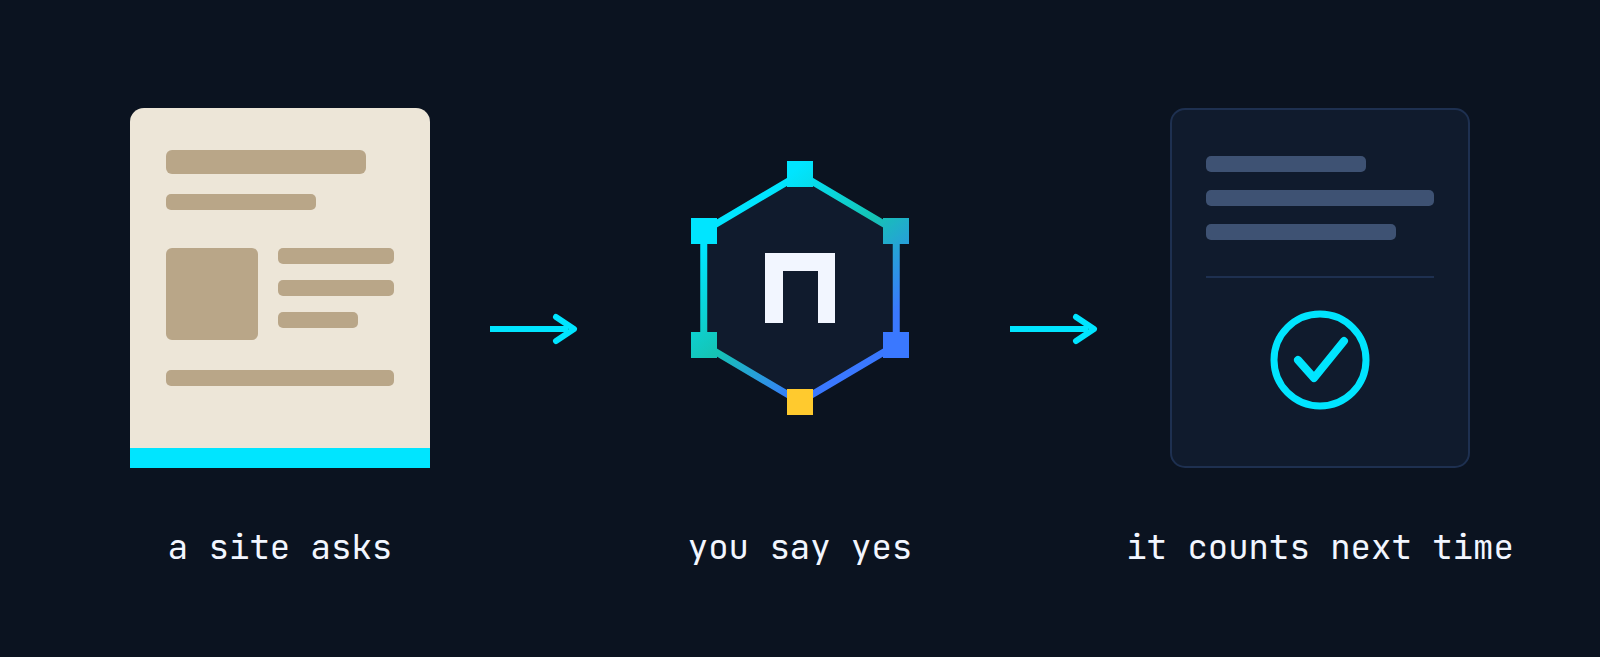
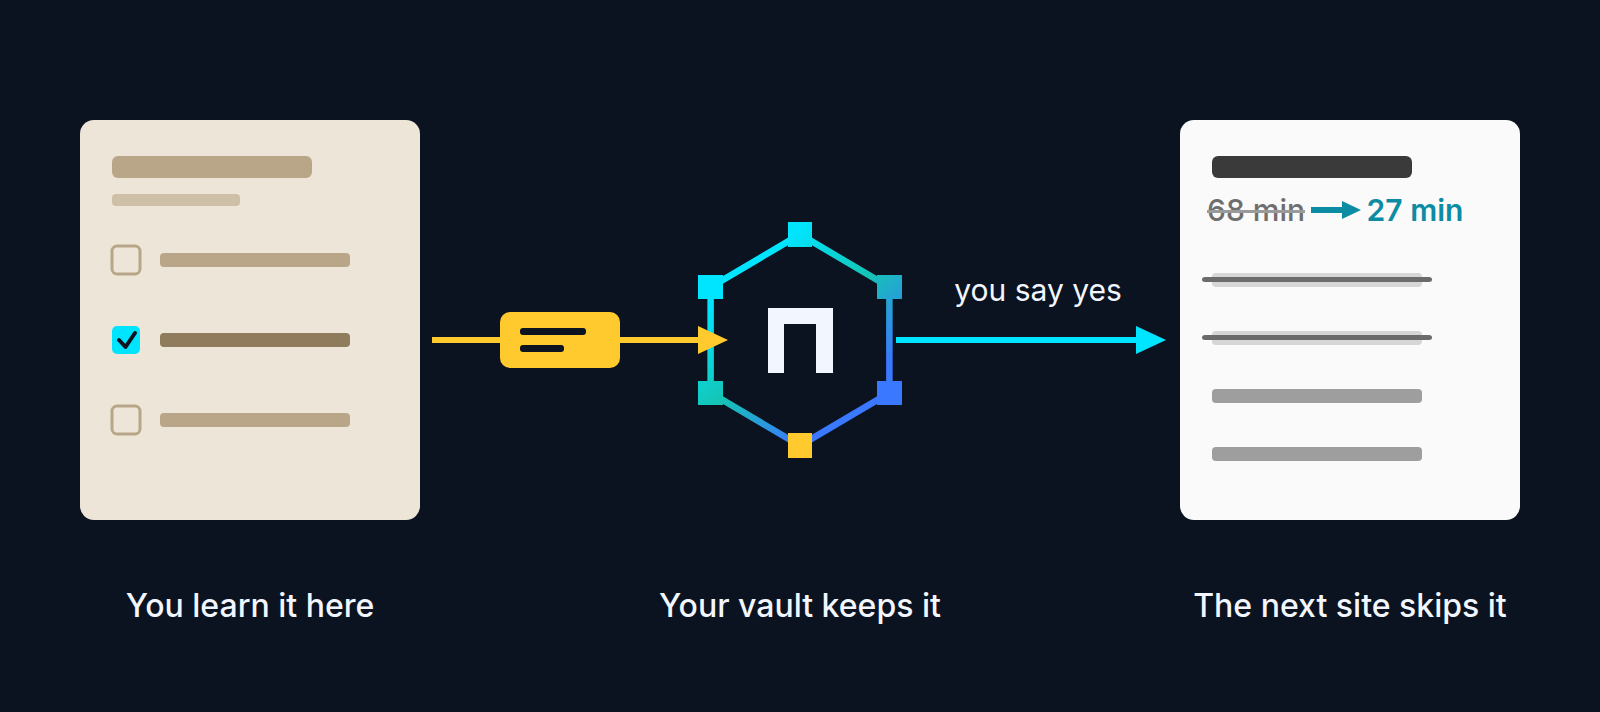
press: the first story card shows the idea, two sites and the vault between them
Claude-Session: https://claude.ai/code/session_01AfeggrhBqzmN8guag9N5jj

diff --git a/docs/assets/press/card-how-it-works.html b/docs/assets/press/card-how-it-works.html
@@ -1,92 +1,109 @@
 <!doctype html>
 <meta charset="utf-8">
-<title>nema story card, how it works</title>
+<title>nema story card, learn it once</title>
 <link rel="stylesheet" href="card.css">
 <style>
-  .row { display: flex; align-items: center; justify-content: center; }
-  .item { width: 400px; flex: none; text-align: center; }
-  .art { height: 400px; display: flex; align-items: center; justify-content: center; }
-  .item .lbl { margin-top: 36px; font-size: 34px; color: #F2F6FF; }
-  .arrow { width: 120px; flex: none; height: 400px; display: flex; align-items: center; justify-content: center; }
+  .card { padding: 80px; }
+
+  .band { position: relative; width: 1440px; height: 460px; }
+  .band > svg { position: absolute; inset: 0; }
+  .band > span { position: absolute; transform: translate(-50%, -50%); white-space: nowrap; }
+
+  /* The estimate on the second site: struck, then what is left. */
+  .was { font-size: 30px; font-weight: 500; color: #6E6E6E;
+         text-decoration: line-through; text-decoration-thickness: 3px; text-decoration-color: #9A9A9A; }
+  .now { font-size: 30px; font-weight: 600; color: #0B8CA3; }
+
+  /* The consent, said on the way out of the vault. */
+  .yes { font-size: 30px; color: #F2F6FF; }
+
+  .caps { position: relative; height: 46px; margin-top: 46px; }
+  .caps span { position: absolute; transform: translateX(-50%);
+               font-size: 32px; font-weight: 500; color: #F2F6FF; white-space: nowrap; }
 </style>
 
 <div class="card">
-  <div class="row">
 
-    <div class="item">
-      <div class="art">
-        <svg width="300" height="360" viewBox="0 0 300 360" fill="none">
-          <rect width="300" height="360" rx="14" fill="#EDE6D8"/>
-          <g fill="#B9A688">
-            <rect x="36" y="42" width="200" height="24" rx="6"/>
-            <rect x="36" y="86" width="150" height="16" rx="5"/>
-            <rect x="36" y="140" width="92" height="92" rx="6"/>
-            <rect x="148" y="140" width="116" height="16" rx="5"/>
-            <rect x="148" y="172" width="116" height="16" rx="5"/>
-            <rect x="148" y="204" width="80" height="16" rx="5"/>
-            <rect x="36" y="262" width="228" height="16" rx="5"/>
-          </g>
-          <rect x="0" y="340" width="300" height="20" fill="#00E5FF"/>
-        </svg>
-      </div>
-      <p class="lbl">a site asks</p>
-    </div>
+  <div class="band">
+    <svg width="1440" height="460" viewBox="0 0 1440 460" fill="none">
+      <defs>
+        <linearGradient id="hw-edge" x1="32" y1="4" x2="58" y2="34" gradientUnits="userSpaceOnUse">
+          <stop offset="0" stop-color="#00E5FF"/><stop offset="0.5" stop-color="#15C4B4"/><stop offset="1" stop-color="#3A78FF"/>
+        </linearGradient>
+      </defs>
 
-    <div class="arrow">
-      <svg width="100" height="34" viewBox="0 0 100 34" fill="none">
-        <path d="M0 17 H78" stroke="#00E5FF" stroke-width="6"/>
-        <path d="M66 5 L84 17 L66 29" stroke="#00E5FF" stroke-width="6" stroke-linecap="round" stroke-linejoin="round"/>
-      </svg>
-    </div>
+      <!-- the first site: a page you actually worked through -->
+      <rect x="0" y="40" width="340" height="400" rx="14" fill="#EDE6D8"/>
+      <rect x="32" y="76" width="200" height="22" rx="6" fill="#B9A688"/>
+      <rect x="32" y="114" width="128" height="12" rx="4" fill="#CDC0A7"/>
 
-    <div class="item">
-      <div class="art">
-        <svg width="280" height="280" viewBox="0 0 64 64" fill="none">
-          <defs>
-            <linearGradient id="hw-edge" x1="32" y1="4" x2="58" y2="34" gradientUnits="userSpaceOnUse">
-              <stop offset="0" stop-color="#00E5FF"/><stop offset="0.5" stop-color="#15C4B4"/><stop offset="1" stop-color="#3A78FF"/>
-            </linearGradient>
-          </defs>
-          <path d="M32 6 L54 19 L54 45 L32 58 L10 45 L10 19 Z" fill="#101B2D" stroke="url(#hw-edge)" stroke-width="1.6" stroke-linejoin="miter"/>
-          <g shape-rendering="crispEdges">
-            <rect x="29" y="3" width="6" height="6" fill="url(#hw-edge)"/>
-            <rect x="51" y="16" width="6" height="6" fill="url(#hw-edge)"/>
-            <rect x="51" y="42" width="6" height="6" fill="url(#hw-edge)"/>
-            <rect x="29" y="55" width="6" height="6" fill="#FFCA2E"/>
-            <rect x="7" y="42" width="6" height="6" fill="url(#hw-edge)"/>
-            <rect x="7" y="16" width="6" height="6" fill="url(#hw-edge)"/>
-          </g>
-          <g fill="#F2F6FF" shape-rendering="crispEdges">
-            <rect x="24" y="24" width="16" height="4"/><rect x="24" y="28" width="4" height="12"/><rect x="36" y="28" width="4" height="12"/>
-          </g>
-        </svg>
-      </div>
-      <p class="lbl">you say yes</p>
-    </div>
+      <rect x="32" y="166" width="28" height="28" rx="5" fill="none" stroke="#B9A688" stroke-width="3"/>
+      <rect x="80" y="173" width="190" height="14" rx="4" fill="#B9A688"/>
 
-    <div class="arrow">
-      <svg width="100" height="34" viewBox="0 0 100 34" fill="none">
-        <path d="M0 17 H78" stroke="#00E5FF" stroke-width="6"/>
-        <path d="M66 5 L84 17 L66 29" stroke="#00E5FF" stroke-width="6" stroke-linecap="round" stroke-linejoin="round"/>
-      </svg>
-    </div>
+      <rect x="32" y="246" width="28" height="28" rx="5" fill="#00E5FF"/>
+      <path d="M39 260 L45.5 267 L55 253" stroke="#0B1320" stroke-width="4" fill="none"
+            stroke-linecap="round" stroke-linejoin="round"/>
+      <rect x="80" y="253" width="190" height="14" rx="4" fill="#8E7C5C"/>
 
-    <div class="item">
-      <div class="art">
-        <svg width="300" height="360" viewBox="0 0 300 360" fill="none">
-          <rect x="1" y="1" width="298" height="358" rx="14" fill="#101B2D" stroke="#1E3050" stroke-width="2"/>
-          <g fill="#3E5273">
-            <rect x="36" y="48" width="160" height="16" rx="5"/>
-            <rect x="36" y="82" width="228" height="16" rx="5"/>
-            <rect x="36" y="116" width="190" height="16" rx="5"/>
-          </g>
-          <rect x="36" y="168" width="228" height="2" fill="#1E3050"/>
-          <circle cx="150" cy="252" r="46" fill="none" stroke="#00E5FF" stroke-width="7"/>
-          <path d="M128 252 L144 270 L174 233" stroke="#00E5FF" stroke-width="8" fill="none" stroke-linecap="round" stroke-linejoin="round"/>
-        </svg>
-      </div>
-      <p class="lbl">it counts next time</p>
-    </div>
+      <rect x="32" y="326" width="28" height="28" rx="5" fill="none" stroke="#B9A688" stroke-width="3"/>
+      <rect x="80" y="333" width="190" height="14" rx="4" fill="#B9A688"/>
 
+      <!-- the vault -->
+      <g transform="translate(590 130) scale(4.0625)">
+        <path d="M32 6 L54 19 L54 45 L32 58 L10 45 L10 19 Z" fill="#0B1320" stroke="url(#hw-edge)"
+              stroke-width="1.6" stroke-linejoin="miter"/>
+        <g shape-rendering="crispEdges">
+          <rect x="29" y="3" width="6" height="6" fill="url(#hw-edge)"/>
+          <rect x="51" y="16" width="6" height="6" fill="url(#hw-edge)"/>
+          <rect x="51" y="42" width="6" height="6" fill="url(#hw-edge)"/>
+          <rect x="29" y="55" width="6" height="6" fill="#FFCA2E"/>
+          <rect x="7" y="42" width="6" height="6" fill="url(#hw-edge)"/>
+          <rect x="7" y="16" width="6" height="6" fill="url(#hw-edge)"/>
+        </g>
+        <g fill="#F2F6FF" shape-rendering="crispEdges">
+          <rect x="24" y="24" width="16" height="4"/><rect x="24" y="28" width="4" height="12"/><rect x="36" y="28" width="4" height="12"/>
+        </g>
+      </g>
+
+      <!-- the signed receipt leaving the page and going into the vault -->
+      <rect x="352" y="257" width="272" height="6" fill="#FFCA2E"/>
+      <path d="M618 246 L648 260 L618 274 Z" fill="#FFCA2E"/>
+      <rect x="420" y="232" width="120" height="56" rx="10" fill="#FFCA2E"/>
+      <g fill="#0B1320">
+        <rect x="440" y="248" width="66" height="7" rx="3"/>
+        <rect x="440" y="265" width="44" height="7" rx="3"/>
+      </g>
+
+      <!-- the vault's answer, on its way to the second site -->
+      <rect x="816" y="257" width="244" height="6" fill="#00E5FF"/>
+      <path d="M1056 246 L1086 260 L1056 274 Z" fill="#00E5FF"/>
+
+      <!-- the second site: a different page, shorter than it was -->
+      <rect x="1100" y="40" width="340" height="400" rx="14" fill="#FAFAFA"/>
+      <rect x="1132" y="76" width="200" height="22" rx="6" fill="#3A3A3A"/>
+
+      <rect x="1231" y="127" width="34" height="6" fill="#0B8CA3"/>
+      <path d="M1262 121 L1281 130 L1262 139 Z" fill="#0B8CA3"/>
+
+      <rect x="1132" y="193" width="210" height="14" rx="4" fill="#D6D6D6"/>
+      <rect x="1122" y="197" width="230" height="5" rx="3" fill="#6B6B6B"/>
+
+      <rect x="1132" y="251" width="210" height="14" rx="4" fill="#D6D6D6"/>
+      <rect x="1122" y="255" width="230" height="5" rx="3" fill="#6B6B6B"/>
+
+      <rect x="1132" y="309" width="210" height="14" rx="4" fill="#9E9E9E"/>
+      <rect x="1132" y="367" width="210" height="14" rx="4" fill="#9E9E9E"/>
+    </svg>
+
+    <span class="was" style="left: 1176px; top: 130px">68 min</span>
+    <span class="now" style="left: 1335px; top: 130px">27 min</span>
+    <span class="yes" style="left: 958px; top: 210px">you say yes</span>
   </div>
+
+  <div class="caps">
+    <span style="left: 170px">You learn it here</span>
+    <span style="left: 720px">Your vault keeps it</span>
+    <span style="left: 1270px">The next site skips it</span>
+  </div>
+
 </div>

diff --git a/docs/assets/press/resize.py b/docs/assets/press/resize.py
@@ -1,13 +1,15 @@
 #!/usr/bin/env python3
 """Write the 720 px variants the Devpost story embeds.
 
-    python3 docs/assets/press/resize.py
+    python3 docs/assets/press/resize.py [name ...]
 
 Reads every apps/site/public/press/card-*.png that is not already a variant and
-writes card-<name>-sm.png beside it, resized to 720 px wide with LANCZOS.
+writes card-<name>-sm.png beside it, resized to 720 px wide with LANCZOS. Pass
+one or more names to do only the cards whose filename contains them.
 """
 import glob
 import os
+import sys
 
 from PIL import Image
 
@@ -15,8 +17,12 @@ HERE = os.path.dirname(os.path.abspath(__file__))
 OUT = os.path.join(HERE, '..', '..', '..', 'apps', 'site', 'public', 'press')
 OUT = os.path.normpath(OUT)
 
+WANTED = sys.argv[1:]
+
 for src in sorted(glob.glob(os.path.join(OUT, 'card-*.png'))):
     if src.endswith('-sm.png'):
+        continue
+    if WANTED and not any(name in os.path.basename(src) for name in WANTED):
         continue
     im = Image.open(src).convert('RGB')
     width, height = im.size

diff --git a/apps/site/public/press/story-cards.md b/apps/site/public/press/story-cards.md
@@ -16,13 +16,13 @@ Hosted at `https://nema.migarci2.dev/press/<file>`.
 | card | 1x | embed | what it shows |
 |---|---|---|---|
 | how it works | `card-how-it-works.png` 1600 x 657 | `card-how-it-works-sm.png` 720 x 296 | A page, the nema mark, a signed receipt, two arrows: a site asks, you say yes, it counts next time. |
-| one tag | `card-one-tag.png` 1600 x 618 | `card-one-tag-sm.png` 720 x 278 | The whole install: the two script tags in a code frame, nothing else. |
+| install | `card-one-tag.png` 1600 x 618 | `card-one-tag-sm.png` 720 x 278 | The whole install: the two script tags in a code frame, nothing else. |
 | consent | `card-consent.png` 1600 x 866 | `card-consent-sm.png` 720 x 390 | The consent modal reduced to its skeleton: the site's name, three concepts with their bands, Deny and Approve. |
 | minutes | `card-minutes.png` 1600 x 456 | `card-minutes-sm.png` 720 x 205 | 68 to 27 to 21 minutes. |
 | trust | `card-trust.png` 1600 x 772 | `card-trust-sm.png` 720 x 347 | What a signature is worth: registered and origin at full weight, self capped. |
 | agents | `card-agents.png` 1600 x 684 | `card-agents-sm.png` 720 x 308 | Five clients, ChatGPT desktop, Chrome 149+, Claude Code, Codex and the nema extension, wired into one vault. |
 | alignment | `card-alignment.png` 1600 x 452 | `card-alignment-sm.png` 720 x 203 | The site's word and the vault's name, and "is the same thing as" between them. |
-| diff | `card-diff.png` 1600 x 782 | `card-diff-sm.png` 720 x 352 | The AES-GCM mirror, original beside the nema version with the additions in cyan, headlined "112 lines added". |
+| diff | `card-diff.png` 1600 x 782 | `card-diff-sm.png` 720 x 352 | The AES-GCM mirror, original beside the nema version with the additions in cyan, headlined "Same AES-GCM article. 112 lines added.". |
 
 Suggested placement in the story:
 
@@ -31,6 +31,6 @@ Suggested placement in the story:
 - What it does, at "Consent you can see": `card-consent-sm.png`
 - What it does, at "Two example courses": `card-minutes-sm.png`
 - What it does, at "Two real articles": `card-diff-sm.png`
-- What it does, at "Any agent": `card-agents-sm.png`
+- What it does, at "The agent you already use": `card-agents-sm.png`
 - What it does, at "Sites that speak their own names": `card-alignment-sm.png`
 - How we built it, at the three trust tiers bullet: `card-trust-sm.png`
